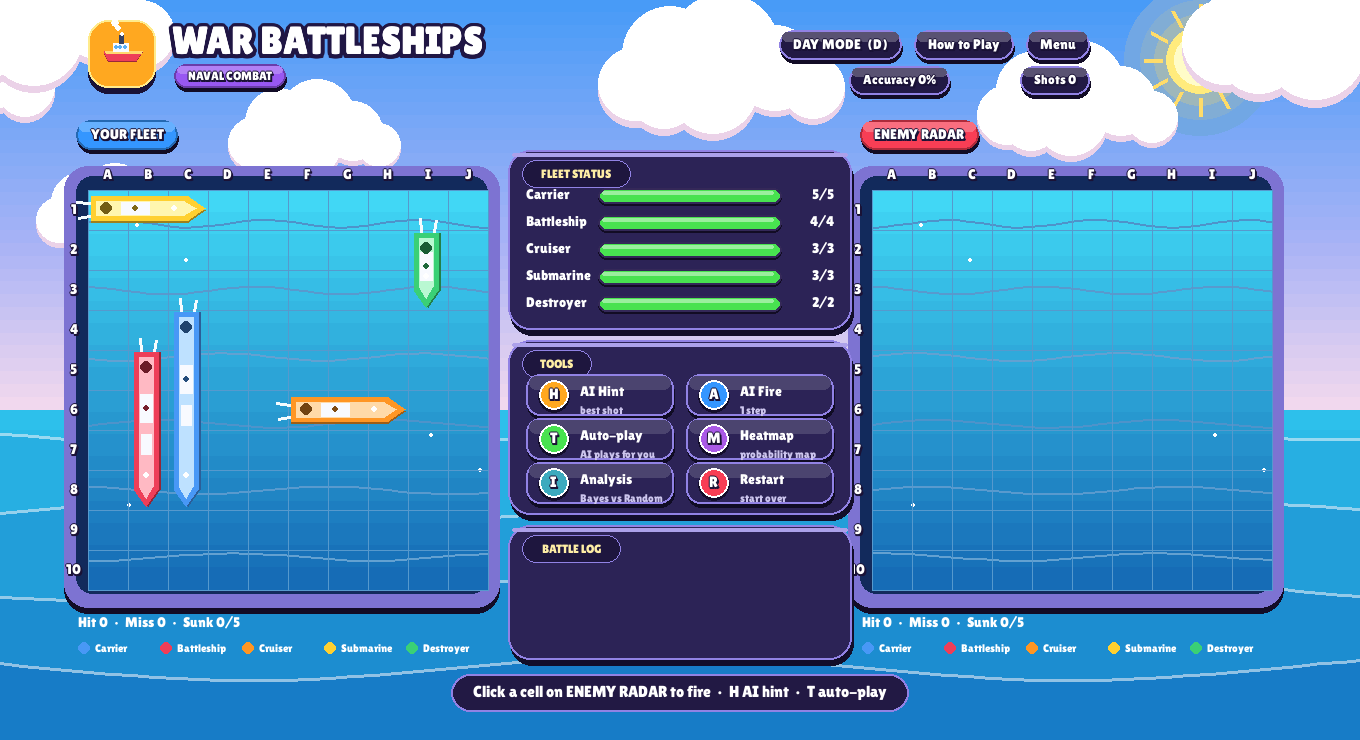
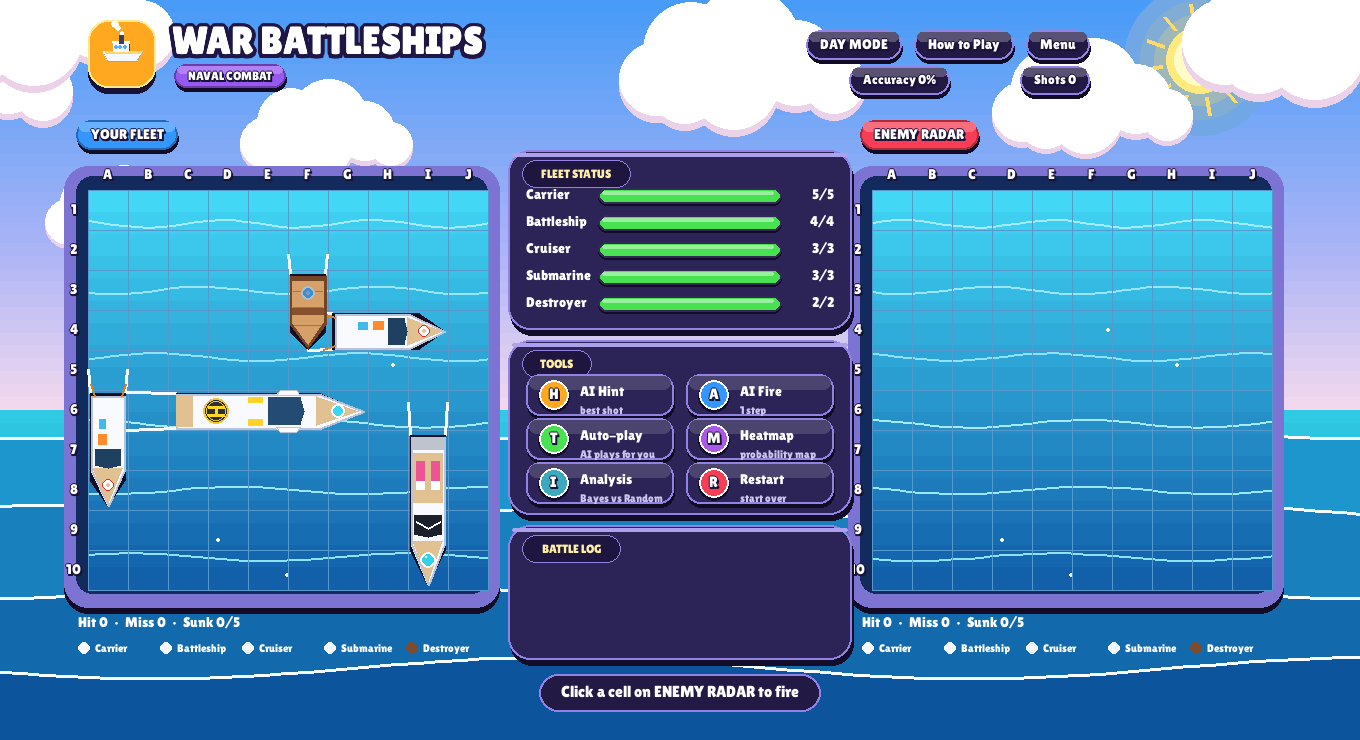
fix boat , oceans and add level

diff --git a/ui/gfx.py b/ui/gfx.py
@@ -221,11 +221,13 @@ class Gfx:
             self.rrect(x + 14, y + 10, tw, th, (30, 22, 62), 14, self.col("edge"), 1)
             self.text(title.upper(), 12, STATIC["accent"], x + 14 + tw / 2, y + 16, True, center=True)
 
-    def pill(self, x, y, s, size=14, fill=None, color=None, border=None, h=None, right=False):
+    def pill(self, x, y, s, size=14, fill=None, color=None, border=None, h=None, right=False, center=False):
         """Casual rounded pill capsule badge."""
         w = self.text_size(s, size, True)[0] + 28
         h = h or size + 16
-        if right:
+        if center:
+            x -= w // 2
+        elif right:
             x -= w
         # 3D shadow
         self.rrect(x + 1, y + 4, w, h, (18, 12, 38), h // 2)
